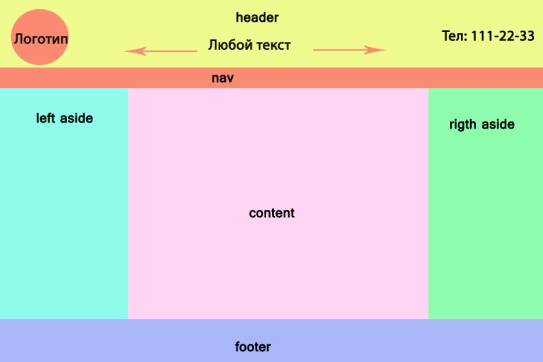
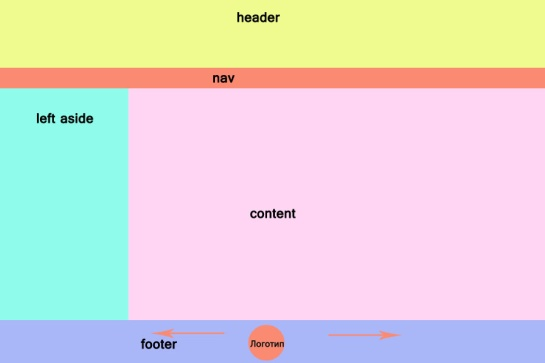
Flexes

diff --git a/index.html b/index.html
@@ -27,79 +27,19 @@
             <div id="Nav-bar">assa</div>
         </div>
 
-        <div class="block">
+        <div class="block-content">
             <div class="aside-left">
                 <div>a</div>
                 <div>b</div>
 
             </div>
             <div class="content-block">
-                <div>bbb</div>
-                <div>bbb</div>
-                <div>bbb</div>
-                <div>bbb</div>
-                <div>bbb</div>
-                <div>bbb</div>
-                <div>bbb</div>
-
-                <div>bbb</div>
-                <div>bbb</div>
-                <div>bbb</div>
-                <div>bbb</div>
-                <div>bbb</div>
-                <div>bbb</div>
-                <div>bbb</div>
-                <div>bbb</div>
-
-                <div>bbb</div>
-                <div>bbb</div>
-                <div>bbb</div>
-                <div>bbb</div>
-                <div>bbb</div>
-                <div>bbb</div>
-                <div>bbb</div>
-                <div>bbb</div>
-
-                <div>bbb</div>
-                <div>bbb</div>
-                <div>bbb</div>
-                <div>bbb</div>
-                <div>bbb</div>
-                <div>bbb</div>
-                <div>bbb</div>
-                <div>bbb</div>
-
-                <div>bbb</div>
-                <div>bbb</div>
-                <div>bbb</div>
-                <div>bbb</div>
-                <div>bbb</div>
-                <div>bbb</div>
-                <div>bbb</div>
-                <div>bbb</div>
-
-                <div>bbb</div>
-                <div>bbb</div>
-                <div>bbb</div>
-                <div>bbb</div>
-                <div>bbb</div>
-                <div>bbb</div>
-                <div>bbb</div>
-                <div>bbb</div>
-
-                <div>bbb</div>
-                <div>bbb</div>
-                <div>bbb</div>
-                <div>bbb</div>
-                <div>bbb</div>
-                <div>bbb</div>
-                <div>bbb</div>
-                <div>bbb</div>
+       
             </div>
 
         </div>
 
-        <div class="block">
+        <div class="block-footer">
             <div class="footer-block">
                 <img class="logo" src="img/logo.png">
             </div>

diff --git a/css/index-styles.css b/css/index-styles.css
@@ -28,7 +28,7 @@
     overflow: scroll;
 }
 
-.block,.block-head{
+.block,.block-head,.block-content,.block-footer{
     margin: auto;
     width: 100%;
     min-height: 25%;
@@ -54,7 +54,7 @@
 .navbar-content{
     margin: auto;
     width: 100%;
-    max-height: 20%;
+    max-height: 10%;
     background-color: maroon;
     display: flex;
     overflow: hidden;
@@ -76,5 +76,13 @@
 }
 
 .block-head{
+    min-height: 10%;
+}
+
+.block-content{
+    min-height: 70%;
+}
+
+.block-footer{
     min-height: 10%;
 }
